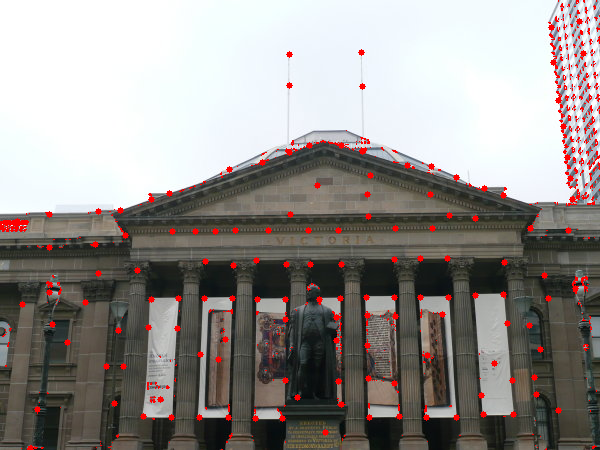
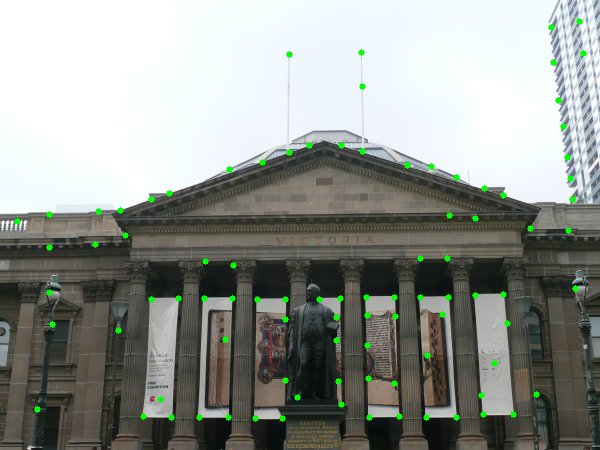
Corrected false detections in ANMS

diff --git a/Phase1/Code/Wrapper.py b/Phase1/Code/Wrapper.py
@@ -61,44 +61,56 @@ def extract_corners(image, use_harris=True, block_size=2, ksize=3, k=0.001, num_
     return corners, corner_coords, image_with_corners
 
 # Perform Adaptive Non-Maximal Suppression (ANMS) to select the best corners from the detected corners
-def ANMS(image, corner_map, N_Best=500):
+def ANMS(image, corner_map, N_Best=500, min_distance=15, radius_threshold=1e-3):
+    """
+    Adaptive Non-Maximal Suppression (ANMS) for corner detection.
+    
+    Parameters:
+        image (numpy.ndarray): The input image on which corners are drawn.
+        corner_map (numpy.ndarray): The corner strength map.
+        N_Best (int): The maximum number of corners to retain after suppression.
+        min_distance (int): Minimum distance between local maxima.
+        radius_threshold (float): Threshold for the suppression radius.
 
-    local_maxima = peak_local_max(corner_map, 15)
+    Returns:
+        list: N_Best corners as (x, y) coordinates.
+        numpy.ndarray: Image with the corners drawn.
+    """
+    # Normalize the corner map to ensure consistent scaling
+    corner_map = corner_map / corner_map.max()
 
+    # Apply a threshold to the corner map to remove weak corners
+    corner_map[corner_map < 0.01] = 0
+
+    # Find local maxima in the corner map
+    local_maxima = peak_local_max(corner_map, min_distance=min_distance)
     N_Strong = len(local_maxima)
 
-    r = [np.Inf for i in range(N_Strong)]
+    # Initialize suppression radius (r) with infinity
+    r = [np.Inf for _ in range(N_Strong)]
 
-    ED = 0
-
-    count = 0
-
+    # Calculate suppression radius for each local maxima
     for i in range(N_Strong):
         for j in range(N_Strong):
-            if corner_map[local_maxima[i][0]][local_maxima[i][1]] < corner_map[local_maxima[j][0]][local_maxima[j][1]]:
-                ED = np.sqrt((local_maxima[i][0] - local_maxima[j][0])**2 + (local_maxima[i][1] - local_maxima[j][1])**2)
-            if ED < r[i]:
-                r[i] = ED
-                count += 1
+            if corner_map[local_maxima[j][0], local_maxima[j][1]] > corner_map[local_maxima[i][0], local_maxima[i][1]]:
+                eu_dist = (local_maxima[j][0] - local_maxima[i][0])**2 + (local_maxima[j][1] - local_maxima[i][1])**2
+                r[i] = min(r[i], eu_dist)
 
-    if count < N_Best:
-        N_Best = count
+    # Filter corners based on suppression radius threshold
+    valid_indices = [i for i, radius in enumerate(r) if radius > radius_threshold]
+    sorted_indices = np.argsort(r)[::-1]  # Sort indices by descending radius
 
-    #Sort the r list in descending order and get the N_Best corners without using zip function
-    N_Best_Corners = [local_maxima[i] for i in np.argsort(r)[::-1][:N_Best]]
-  
-    #print(N_Best_Corners)
-    
-    #Show the N_Best corners on the image
-    for i in range(len(N_Best_Corners)):
-       cv2.circle(image, (int(N_Best_Corners[i][1]), int(N_Best_Corners[i][0])), 3, (0, 0, 255), -1)
-    
-    # cv2.imshow("N_Best_Corners", image)
-    # cv2.waitKey(0)
-    # cv2.destroyAllWindows()
-    # cv2.imwrite("N_Best_Corners.jpg", image)  
+    # Select top N_Best corners
+    selected_indices = [i for i in sorted_indices if i in valid_indices][:N_Best]
+    N_Best_Corners = [local_maxima[i] for i in selected_indices]
 
-    return N_Best_Corners
+    # Draw the selected corners on the image
+    output_image = image.copy()
+    for corner in N_Best_Corners:
+        cv2.circle(output_image, (int(corner[1]), int(corner[0])), 3, (0, 255, 0), -1)
+
+    return N_Best_Corners, output_image
+
 
 def main(): 
     # Add any Command Line arguments here
@@ -141,9 +153,9 @@ def main():
 	"""
     
 	# Perform ANMS on the corner maps
-    N_Best_Corners1 = ANMS(image_with_corners1, corners1)
-    N_Best_Corners2 = ANMS(image_with_corners2, corners2)
-    N_Best_Corners3 = ANMS(image_with_corners3, corners3)
+    anms_corners1, image_with_corners1 = ANMS(img1, corners1)
+    anms_corners2, image_with_corners2 = ANMS(img2, corners2)
+    anms_corners3, image_with_corners3 = ANMS(img3, corners3)
     
 	#Store the ANMS output in the Output folder
     cv2.imwrite('Output/anms1.png', image_with_corners1)

diff --git a/Phase1/Code/test.py b/Phase1/Code/test.py
@@ -41,16 +41,79 @@ def detectCorners(imgs, choice):
     #remove the corner one
     return detected_corners, cmaps, corner_images
 
+def AdaptiveNonMaximalSuppression(images, C_maps, N_best):
+    imgs = images.copy()
+    anms_img = []
+    anms_corners = []
+    
+    for i, img in enumerate(imgs):
+        cmap = C_maps[i]
+        
+        # Find local maxima
+        local_maximas = peak_local_max(cmap, min_distance=15)
+        n_strong = local_maximas.shape[0]
+        
+        r = [np.Infinity for _ in range(n_strong)]
+        x = np.zeros((n_strong, 1), dtype=int)
+        y = np.zeros((n_strong, 1), dtype=int)
+        eu_dist = 0
+
+        # Compute suppression radius
+        for i in range(n_strong):
+            for j in range(n_strong):
+                x_j = local_maximas[j][0]
+                y_j = local_maximas[j][1]
+
+                x_i = local_maximas[i][0]
+                y_i = local_maximas[i][1]
+
+                if cmap[x_j, y_j] > cmap[x_i, y_i]:
+                    eu_dist = np.square(x_j - x_i) + np.square(y_j - y_i)
+                if r[i] > eu_dist:
+                    r[i] = eu_dist
+                    x[i] = x_j
+                    y[i] = y_j
+
+        # Sort by suppression radius
+        index = np.argsort(r)[::-1]  # Sort in descending order
+        index = index[:N_best]
+        
+        # Initialize best coordinates
+        N_best = min(N_best, x.shape[0])  # Handle cases where fewer maxima are found
+        x_best = np.zeros((N_best, 1), dtype=int)
+        y_best = np.zeros((N_best, 1), dtype=int)
+
+        for i in range(N_best):
+            x_best[i] = int(y[index[i]])  # Convert to Python int
+            y_best[i] = int(x[index[i]])  # Convert to Python int
+            cv2.circle(img, (int(x_best[i]), int(y_best[i])), 5, (0, 255, 0), -1)
+
+        # Concatenate and append results
+        anms_corner = np.hstack((x_best, y_best))
+        anms_corners.append(anms_corner)
+        anms_img.append(img)
+
+    return anms_corners, anms_img
+
+
 def main():
-    img = cv2.imread("/Users/rohin/Documents/Computer Vision/AutoPano/Phase1/Data/Train/Set1/1.jpg")
-    imgs = [img]
+    img1 = cv2.imread("/Users/rohin/Documents/Computer Vision/AutoPano/Phase1/Data/Train/Set1/1.jpg")
+    img2 = cv2.imread("/Users/rohin/Documents/Computer Vision/AutoPano/Phase1/Data/Train/Set1/2.jpg")
+    img3 = cv2.imread("/Users/rohin/Documents/Computer Vision/AutoPano/Phase1/Data/Train/Set1/3.jpg")
+    imgs = [img1, img2, img3]
     choice = 1
     detected_corners, cmaps, corner_images = detectCorners(imgs, choice)
-    print("Detected Corners: ", detected_corners)
-    print("Corner Maps: ", cmaps)
-    #Display corner image
-    cv2.imshow("Corner Image", corner_images[0])
-    cv2.waitKey(0)
+    
+    N_best = 500
+    anms_corners, anms_img = AdaptiveNonMaximalSuppression(corner_images, cmaps, N_best)
+    
+    #Create a test output folder if it does not exist and store the corner images and the ANMS images
+    if not os.path.exists("Test_Output"):
+        os.makedirs("Test_Output")
+
+    for i in range(len(corner_images)):
+        cv2.imwrite("Test_Output/corners" + str(i+1) + ".png", corner_images[i])
+        cv2.imwrite("Test_Output/anms" + str(i+1) + ".png", anms_img[i])
 
 if __name__ == "__main__":
     main()
